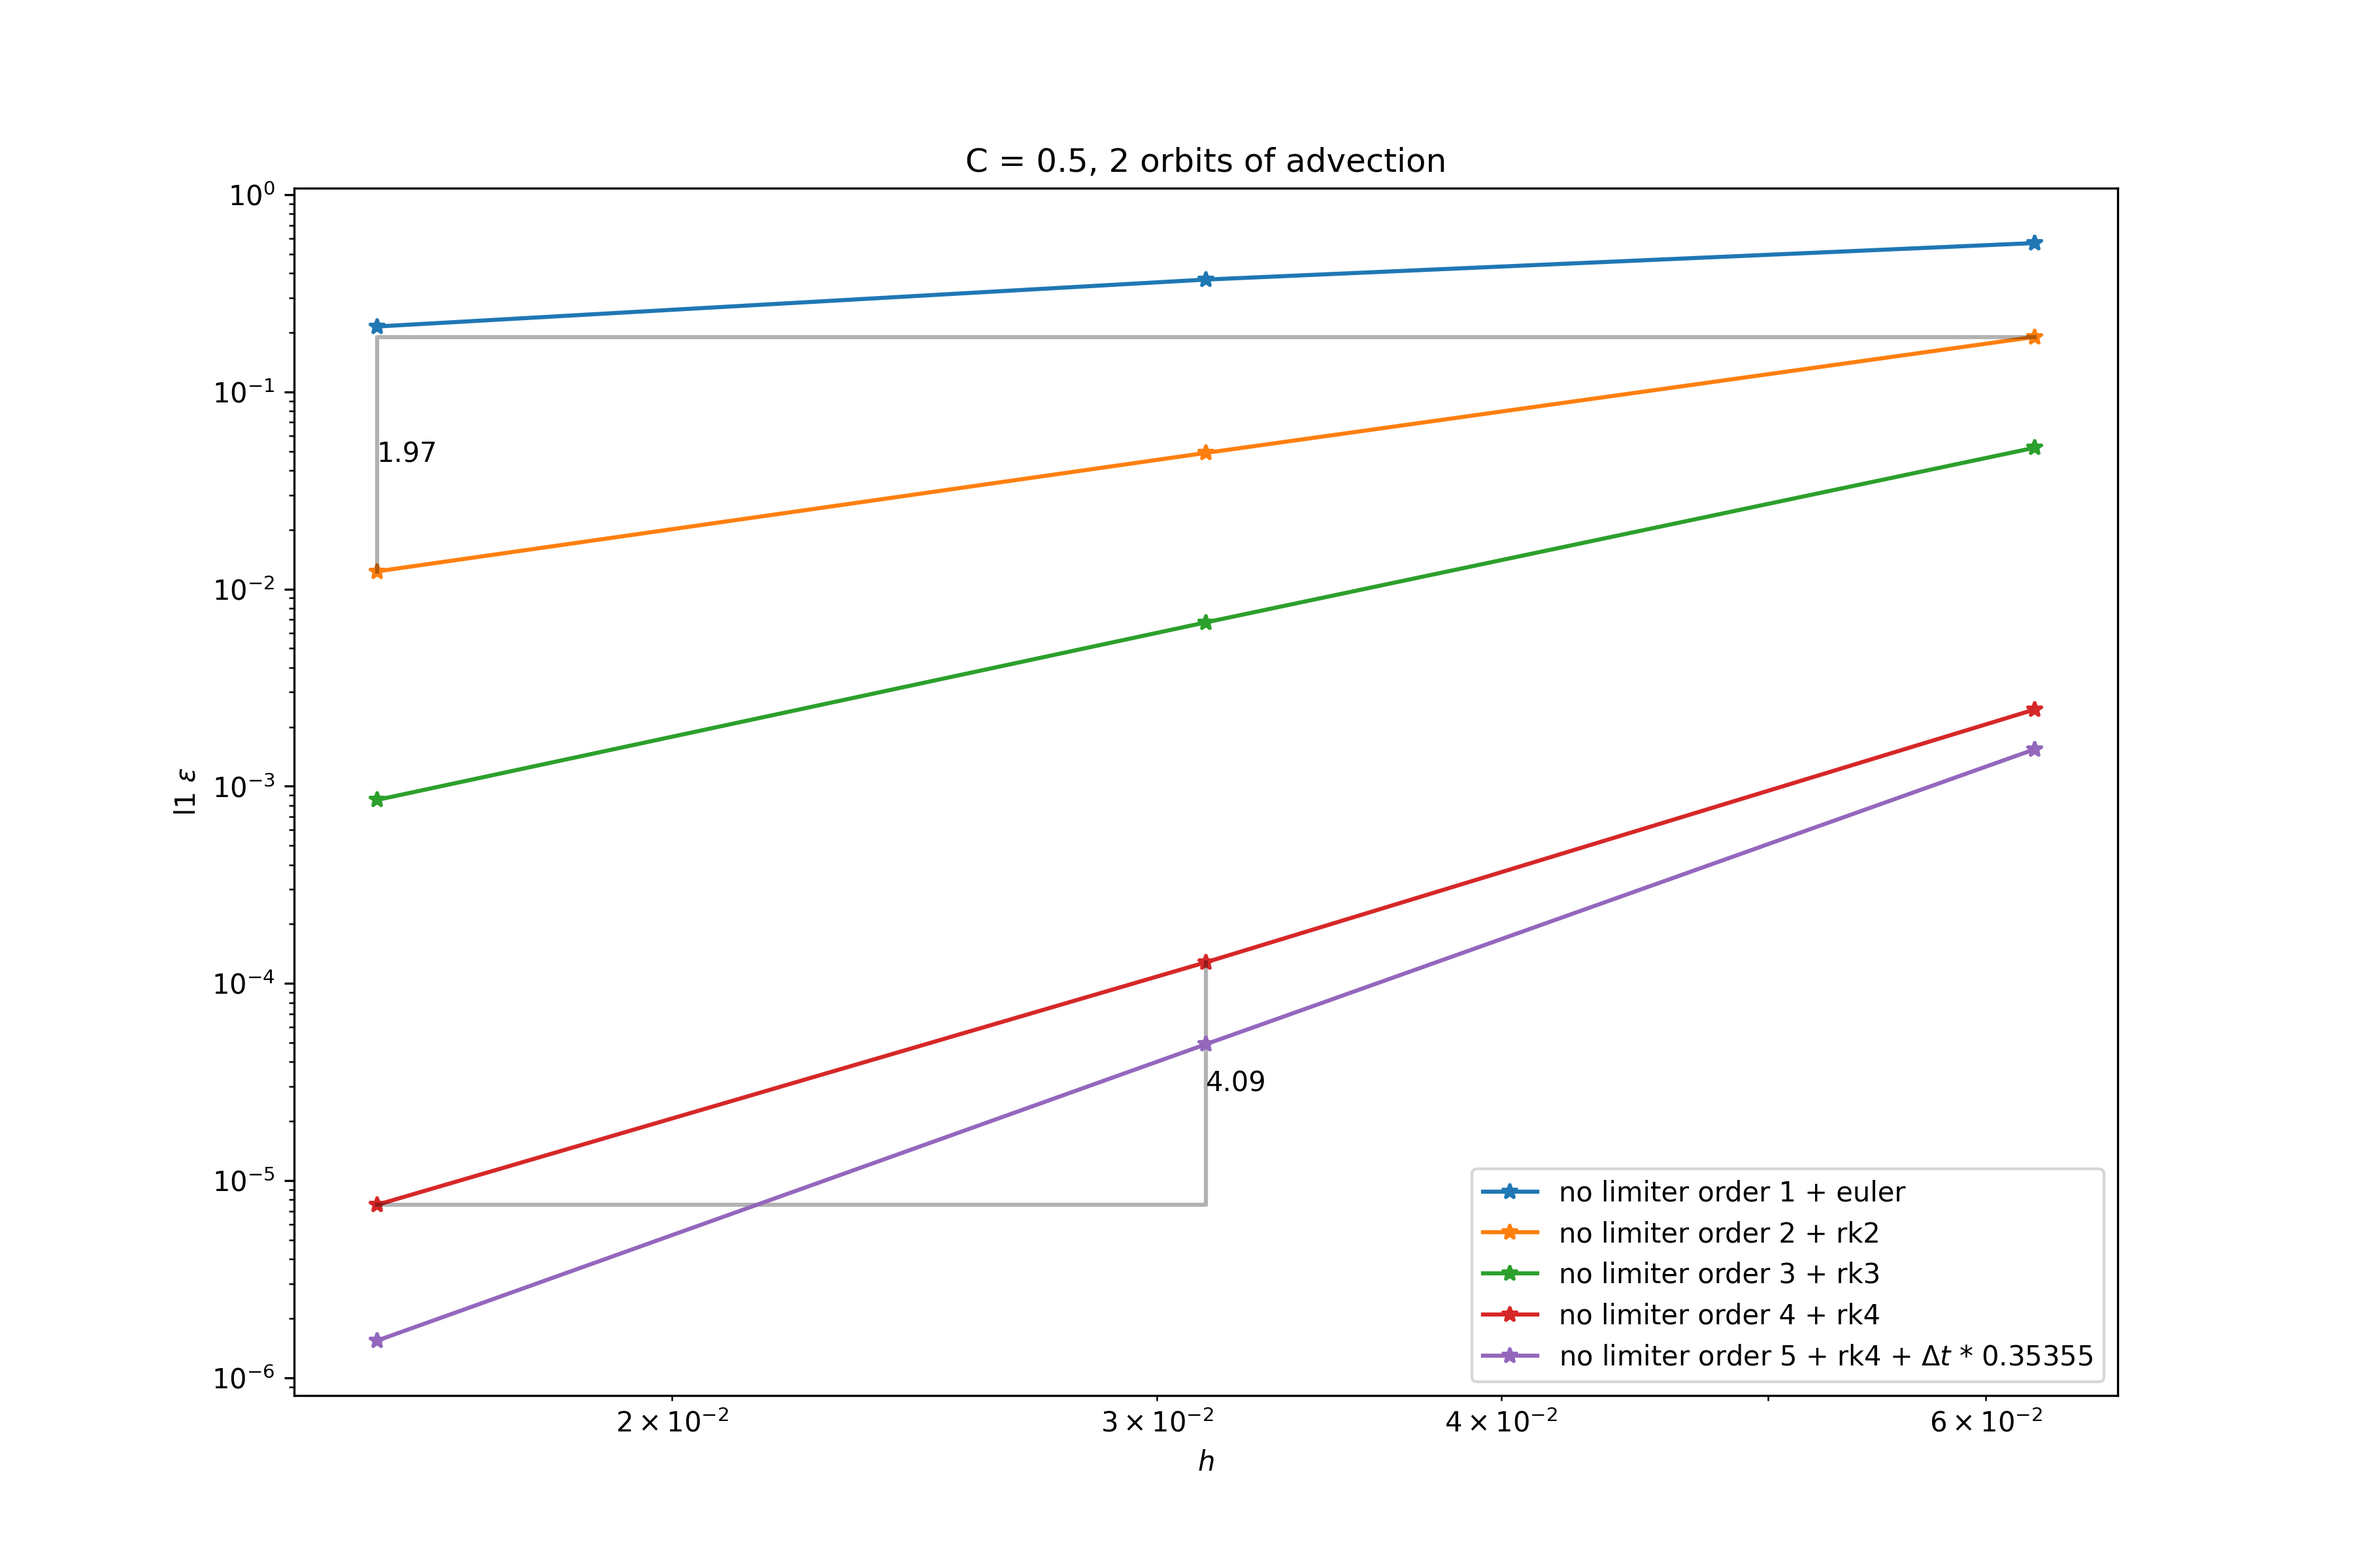
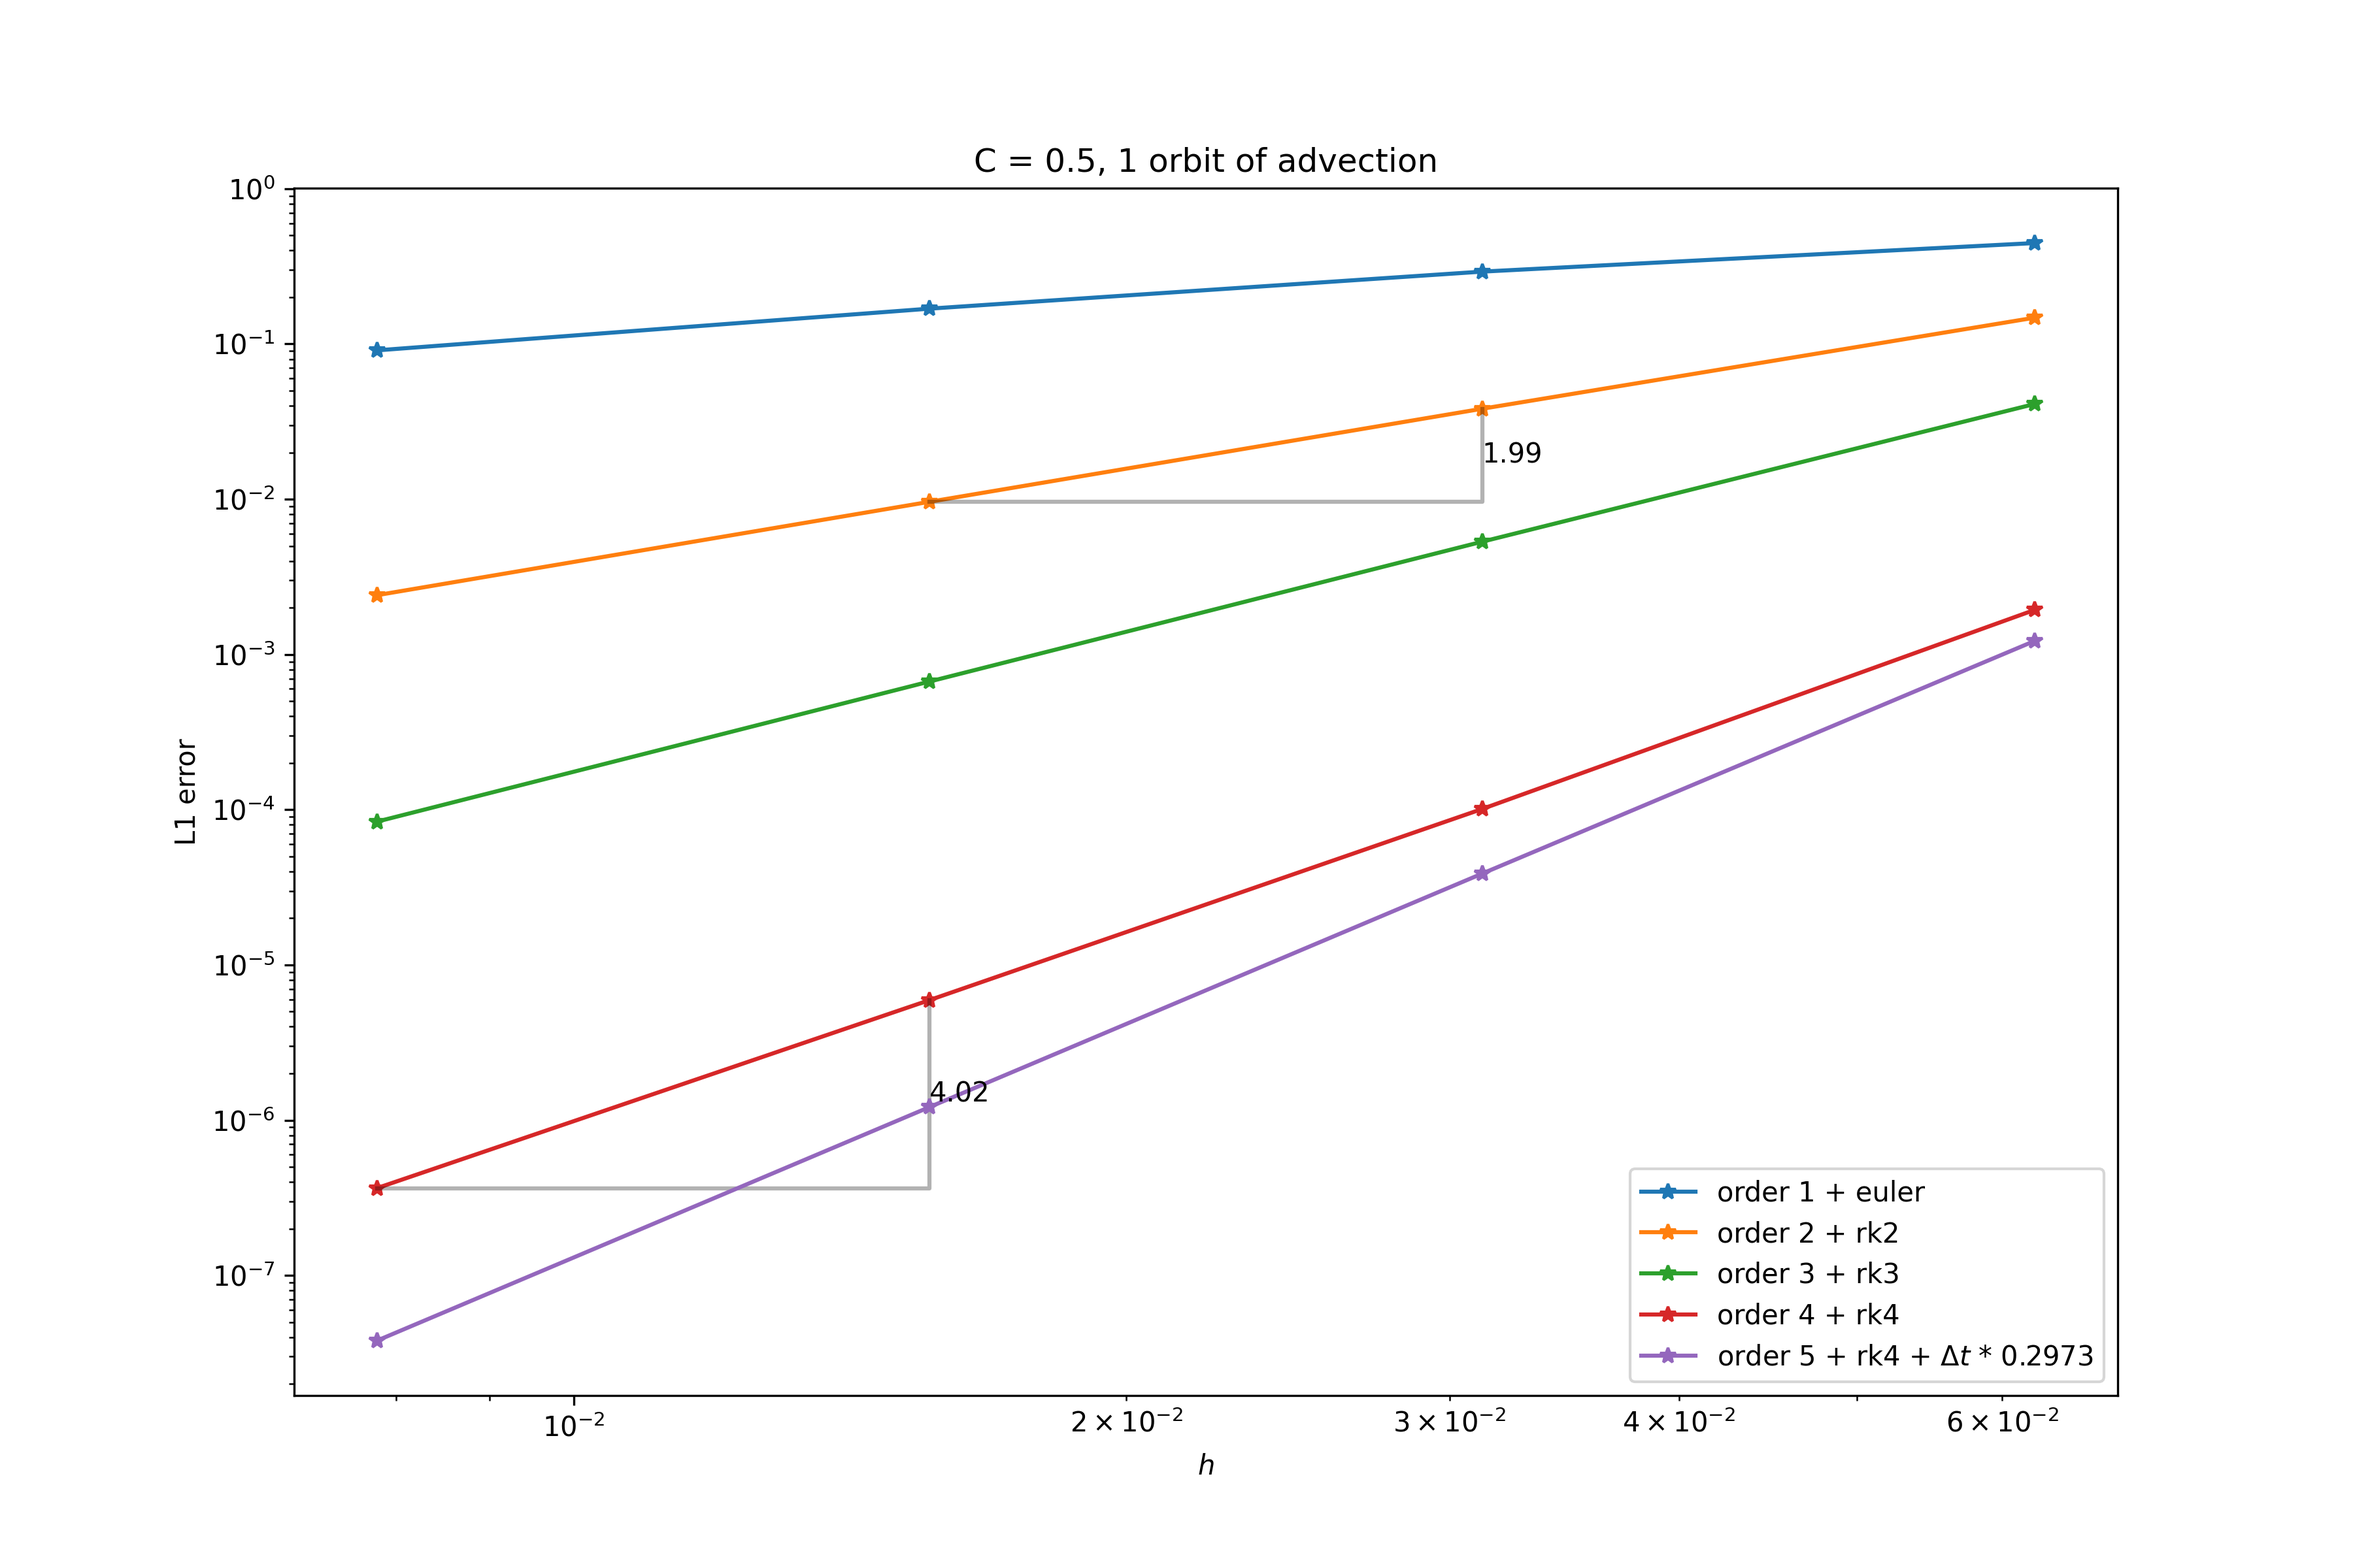
feat: demonstration of 2d convergence with diagonal sine wave

diff --git a/src/convergence2d.py b/src/convergence2d.py
@@ -1,40 +1,25 @@
 import numpy as np
 import matplotlib.pyplot as plt
 from csv import writer
+import warnings
 from util.advection2d import AdvectionSolver
 
-# admin
+warnings.filterwarnings("ignore")
+
+# configurations
+order_list = [1, 2, 3, 4, 5]
+n_list = [16, 32, 64, 128]
+u0_preset = "sinus"
+courant = 0.5
+T = 1
+x = (0, 1)
+a = (1, 1)
+
+
+# file locations
 plot_path = "figures/"
 data_path = "data/"
 project_name = "error_convergence_2d_advection"
-
-# configurations
-global_config = {
-    "mesh sizes": [16, 32, 64],
-    "error norm": "l1",
-    "solution scheme": "no limiter",
-    "courant factor": 0.5,
-    "advection velocity": (1, 1),
-    "initial condition": "sinus",
-    "solution time": 2,
-}
-solution_configs = [
-    {
-        "order": 1,
-    },
-    {
-        "order": 2,
-    },
-    {
-        "order": 3,
-    },
-    {
-        "order": 4,
-    },
-    {
-        "order": 5,
-    },
-]
 
 
 def plot_slope_triangle(x, y):
@@ -63,64 +48,54 @@ with open(data_path + project_name + ".csv", "w+") as f_object:
     writer_object.writerow(["label", "h", "error"])
     f_object.close()
 
+
 # initialize plot
 plt.figure(figsize=(12, 8))
-triangle_index = 0  # initialize index for forming triangles
-for config in solution_configs:
+triangle_index = 2  # initialize index for forming triangles
+for order in sorted(order_list):
+    print(f"Solving order {order}")
     h_list = []
     error_list = []
-    for n in global_config["mesh sizes"]:
-        # global config
-        for key in global_config.keys():
-            config[key] = global_config[key]
-        # print update
-        print("- - - - -")
-        for key, item in config.items():
-            print(f"{key}: {item}")
-        print(f"mesh size: {n}")
-        print()
-        # define solution
-        if config["solution scheme"] == "no limiter":
-            solution = AdvectionSolver(
-                u0_preset=config["initial condition"],
-                n=n,
-                T=config["solution time"],
-                a=config["advection velocity"],
-                courant=config["courant factor"],
-                order=config["order"],
-            )
-        else:
-            raise BaseException(
-                f"invalid solution scheme {config['solution scheme']}"
-            )
-        # time integration
-        solution.rkn(config["order"])
-        # find error
-        if config["error norm"] == "l1":
-            error = np.sum(
-                np.abs(solution.u[-1] - solution.u[0])
-                / (solution.nx * solution.ny)
-            )
-        else:
-            raise BaseException(f"invalid error norm {config['error norm']}")
-        # append error to list of errors
-        h_list.append(solution.hx)
+    for n in sorted(n_list):
+        print(f"\tn = {n}")
+        # initialize solution
+        solution = AdvectionSolver(
+            n=n,
+            order=order,
+            u0_preset=u0_preset,
+            courant=courant,
+            adujst_time_step=True,
+            a=a,
+            T=T,
+            x=x,
+        )
+        solution.rkorder()  # time integration
+        # append error to list of error
+        error = solution.find_error("l1")
+        h_list.append(solution.h)
         error_list.append(error)
         # label generation
-        if config["order"] == 1:
+        if solution.order == 1:
             time_message = "euler"
-        elif config["order"] > 1 and config["order"] <= 4:
-            time_message = f"rk{config['order']}"
-        else:
-            time_message = (
-                "rk4 + "
+        elif solution.order > 1 and solution.order < 4:
+            time_message = f"rk{solution.order}"
+        elif solution.order >= 4:
+            time_message = "rk4"
+        if solution.adujst_time_step and solution.order > 4:
+            time_message += (
+                " + "
                 + r"$\Delta t$"
-                + f" * {round(solution.time_step_adjustment, 5)}"
+                + f" * {round(solution.Dt_adjustment, 5)}"
             )
-        label = (
-            f"{config['solution scheme']} order {config['order']}"
-            f" + {time_message}"
-        )
+        # limiter_message = (
+        #     solution.apriori_limiting if solution.apriori_limiting else "no"
+        # ) + " limiter"
+        # if solution.smooth_extrema_detection:
+        #     limiter_message += " with smooth extrema detection"
+        # label = (
+        #     f"{limiter_message} order {solution.order}" f" + {time_message}"
+        # )
+        label = f"order {solution.order}" f" + {time_message}"
         # data logging
         with open(data_path + project_name + ".csv", "a") as f_object:
             writer_object = writer(f_object)
@@ -129,7 +104,7 @@ for config in solution_configs:
     # plot the error on loglog
     plt.loglog(h_list, error_list, "-*", label=label)
     # if the order of the solution is even, give it a slope triangle
-    if config["order"] % 2 == 0:
+    if solution.order % 2 == 0:
         plot_slope_triangle(
             [h_list[triangle_index], h_list[triangle_index - 1]],
             [error_list[triangle_index], error_list[triangle_index - 1]],
@@ -141,10 +116,8 @@ for config in solution_configs:
 
 # finish plot
 plt.xlabel(r"$h$")
-plt.ylabel(f"{global_config['error norm']} " + r"$\epsilon$")
-C = global_config["courant factor"]
-T = global_config["solution time"]
-plt.title(f"C = {C}, {T} orbits of advection")
+plt.ylabel("L1 error")
+plt.title(f"C = {courant}, 1 orbit of advection")
 plt.legend()
 plt.savefig(plot_path + project_name + ".png", dpi=300)
 plt.show()

diff --git a/src/util/advection2d.py b/src/util/advection2d.py
@@ -80,7 +80,7 @@ class AdvectionSolver(Integrator):
     def __init__(
         self,
         u0_preset: str = "square",
-        n: int = 32,
+        n: tuple = (32, 32),
         x: tuple = (0, 1),
         y: tuple = None,
         T: float = 1,
@@ -116,6 +116,7 @@ class AdvectionSolver(Integrator):
         )  # cell centers
         self.Ly = y[1] - y[0]  # domain size in y
         self.hy = self.Ly / ny  # cell size in y
+        self.h = self.hx if self.hx == self.hy else None
 
         # constant advection velocity defined at cell interfaces
         if isinstance(a, tuple):
@@ -127,9 +128,15 @@ class AdvectionSolver(Integrator):
 
         # time discretization
         self.courant = courant
-        Dt = courant * min(
-            self.hx / max(a_max[0], 1e-6), self.hy / max(a_max[1], 1e-6)
-        )
+        if isinstance(a, tuple):
+            Dt = courant / (
+                np.max(np.abs(self.a)) / self.hx
+                + np.max(np.abs(self.b)) / self.hy
+            )
+        if callable(a):
+            precompa, precompb = self.a(self.x_interface, self.y_interface)
+            maxa, maxb = np.max(np.abs(precompa)), np.max(np.abs(precompb))
+            Dt = courant / (maxa / self.hx + maxb / self.hy)
         Dt_adjustment = 1
         if self.adujst_time_step and order > 4:
             Dt_adjustment_x = rk4_Dt_adjust(self.hx, self.Lx, order)
@@ -380,15 +387,18 @@ class AdvectionSolver(Integrator):
         approx = self.u[-1]
         truth = self.u[0]
         if norm == "l1":
-            return np.sum(np.abs(approx - truth)) / len(truth)
+            return np.sum(np.abs(approx - truth) * self.hx * self.hy)
         if norm == "l2":
-            return np.sqrt(np.sum(np.power(approx - truth, 2)) / len(truth))
+            return np.sqrt(
+                np.sum(np.power(approx - truth, 2)) * self.hx * self.hy
+            )
         if norm == "inf":
             return np.max(np.abs(approx - truth))
 
     def plot(self):
         # global max and min
         hmin, hmax = np.min(self.u), np.max(self.u)
+        bounds = [self.x[0], self.x[-1], self.y[0], self.y[-1]]
 
         # select plot frames
         data1 = np.flipud(self.u[0])
@@ -408,12 +418,22 @@ class AdvectionSolver(Integrator):
             figure=fig,
         )
         axs = gs.subplots()
-        im1 = axs[0, 0].imshow(data1, cmap="cool", vmin=hmin, vmax=hmax)
-        axs[0, 1].imshow(data2, cmap="cool", vmin=hmin, vmax=hmax)
-        axs[0, 2].imshow(data3, cmap="cool", vmin=hmin, vmax=hmax)
-        axs[1, 0].imshow(data4, cmap="cool", vmin=hmin, vmax=hmax)
-        axs[1, 1].imshow(data5, cmap="cool", vmin=hmin, vmax=hmax)
-        im6 = axs[1, 2].imshow(data6, cmap="hot")
+        im1 = axs[0, 0].imshow(
+            data1, cmap="cool", vmin=hmin, vmax=hmax, extent=bounds
+        )
+        axs[0, 1].imshow(
+            data2, cmap="cool", vmin=hmin, vmax=hmax, extent=bounds
+        )
+        axs[0, 2].imshow(
+            data3, cmap="cool", vmin=hmin, vmax=hmax, extent=bounds
+        )
+        axs[1, 0].imshow(
+            data4, cmap="cool", vmin=hmin, vmax=hmax, extent=bounds
+        )
+        axs[1, 1].imshow(
+            data5, cmap="cool", vmin=hmin, vmax=hmax, extent=bounds
+        )
+        im6 = axs[1, 2].imshow(data6, cmap="hot", extent=bounds)
 
         # color bars
         cbar1 = fig.add_subplot(gs[0, 3])

diff --git a/src/util/initial_condition.py b/src/util/initial_condition.py
@@ -59,12 +59,13 @@ def initial_condition1d(x, ic_type):
 
 def initial_condition2d(x, y, ic_type):
     if ic_type == "sinus":
-        return -np.array(
-            [
-                [np.cos(2 * math.pi * i) + np.cos(2 * math.pi * j) for i in x]
-                for j in y
-            ]
-        )
+        return np.sin(2 * np.pi * (x + y[:, np.newaxis]))
+    elif ic_type == "sinusx":
+        xx = np.tile(x, (len(y), 1))
+        return np.sin(2 * np.pi * xx)
+    elif ic_type == "sinusy":
+        yy = np.tile(y.reshape(-1, 1), (1, len(x)))
+        return np.sin(2 * np.pi * yy)
     elif ic_type == "square":
         return np.array(
             [
@@ -91,3 +92,8 @@ def initial_condition2d(x, y, ic_type):
         u = np.zeros(x.shape)
         u = np.where(np.logical_and(disk_idx, np.logical_not(slot_idx)), 1, u)
         return u
+    elif ic_type == "gauss":
+        sigma = 1 / 14
+        xx, yy = np.meshgrid(x, y)
+        r_sq = xx**2 + yy**2
+        return np.exp(-r_sq / (2 * (sigma**2)))

diff --git a/src/convergence1d.py b/src/convergence1d.py
@@ -80,13 +80,15 @@ for order in sorted(order_list):
             time_message += (
                 " + "
                 + r"$\Delta t$"
-                + f" * {round(solution.time_step_adjustment, 5)}"
+                + f" * {round(solution.Dt_adjustment, 5)}"
             )
         limiter_message = (
-            solution.apriori if solution.apriori else "no"
+            solution.apriori_limiting if solution.apriori_limiting else "no"
         ) + " limiter"
         limiter_message += (
-            " with smooth extrema detection" if solution.smooth_extrema else ""
+            " with smooth extrema detection"
+            if solution.smooth_extrema_detection
+            else ""
         )
         label = (
             f"{limiter_message} order {solution.order}" f" + {time_message}"

diff --git a/src/run1d.py b/src/run1d.py
@@ -11,16 +11,7 @@ T = 1
 solutions = [
     AdvectionSolver(
         n=n,
-        order=2,
-        u0_preset=u0_preset,
-        courant=0.166,
-        T=T,
-        apriori_limiting="mpp",
-        smooth_extrema_detection=True,
-    ),
-    AdvectionSolver(
-        n=n,
-        order=3,
+        order=4,
         u0_preset=u0_preset,
         courant=0.166,
         T=T,
@@ -33,8 +24,7 @@ solutions = [
         u0_preset=u0_preset,
         courant=0.166,
         T=T,
-        apriori_limiting="mpp",
-        smooth_extrema_detection=True,
+        aposteriori_limiting=True,
     ),
 ]
 

diff --git a/src/run2d.py b/src/run2d.py
@@ -11,6 +11,7 @@ def a(x, y):
         1d arrays x and y
     returns:
         tuple of meshes of both components of velocity in x, y
+        for a vortex advection field
     """
     xx, yy = np.meshgrid(x, y)
     vx, vy = -yy, xx
@@ -24,7 +25,7 @@ solution = AdvectionSolver(
     y=(-1, 1),
     T=2 * np.pi,
     a=a,
-    courant=0.45,
+    courant=0.5,
     order=4,
 )
 solution.rkorder()
